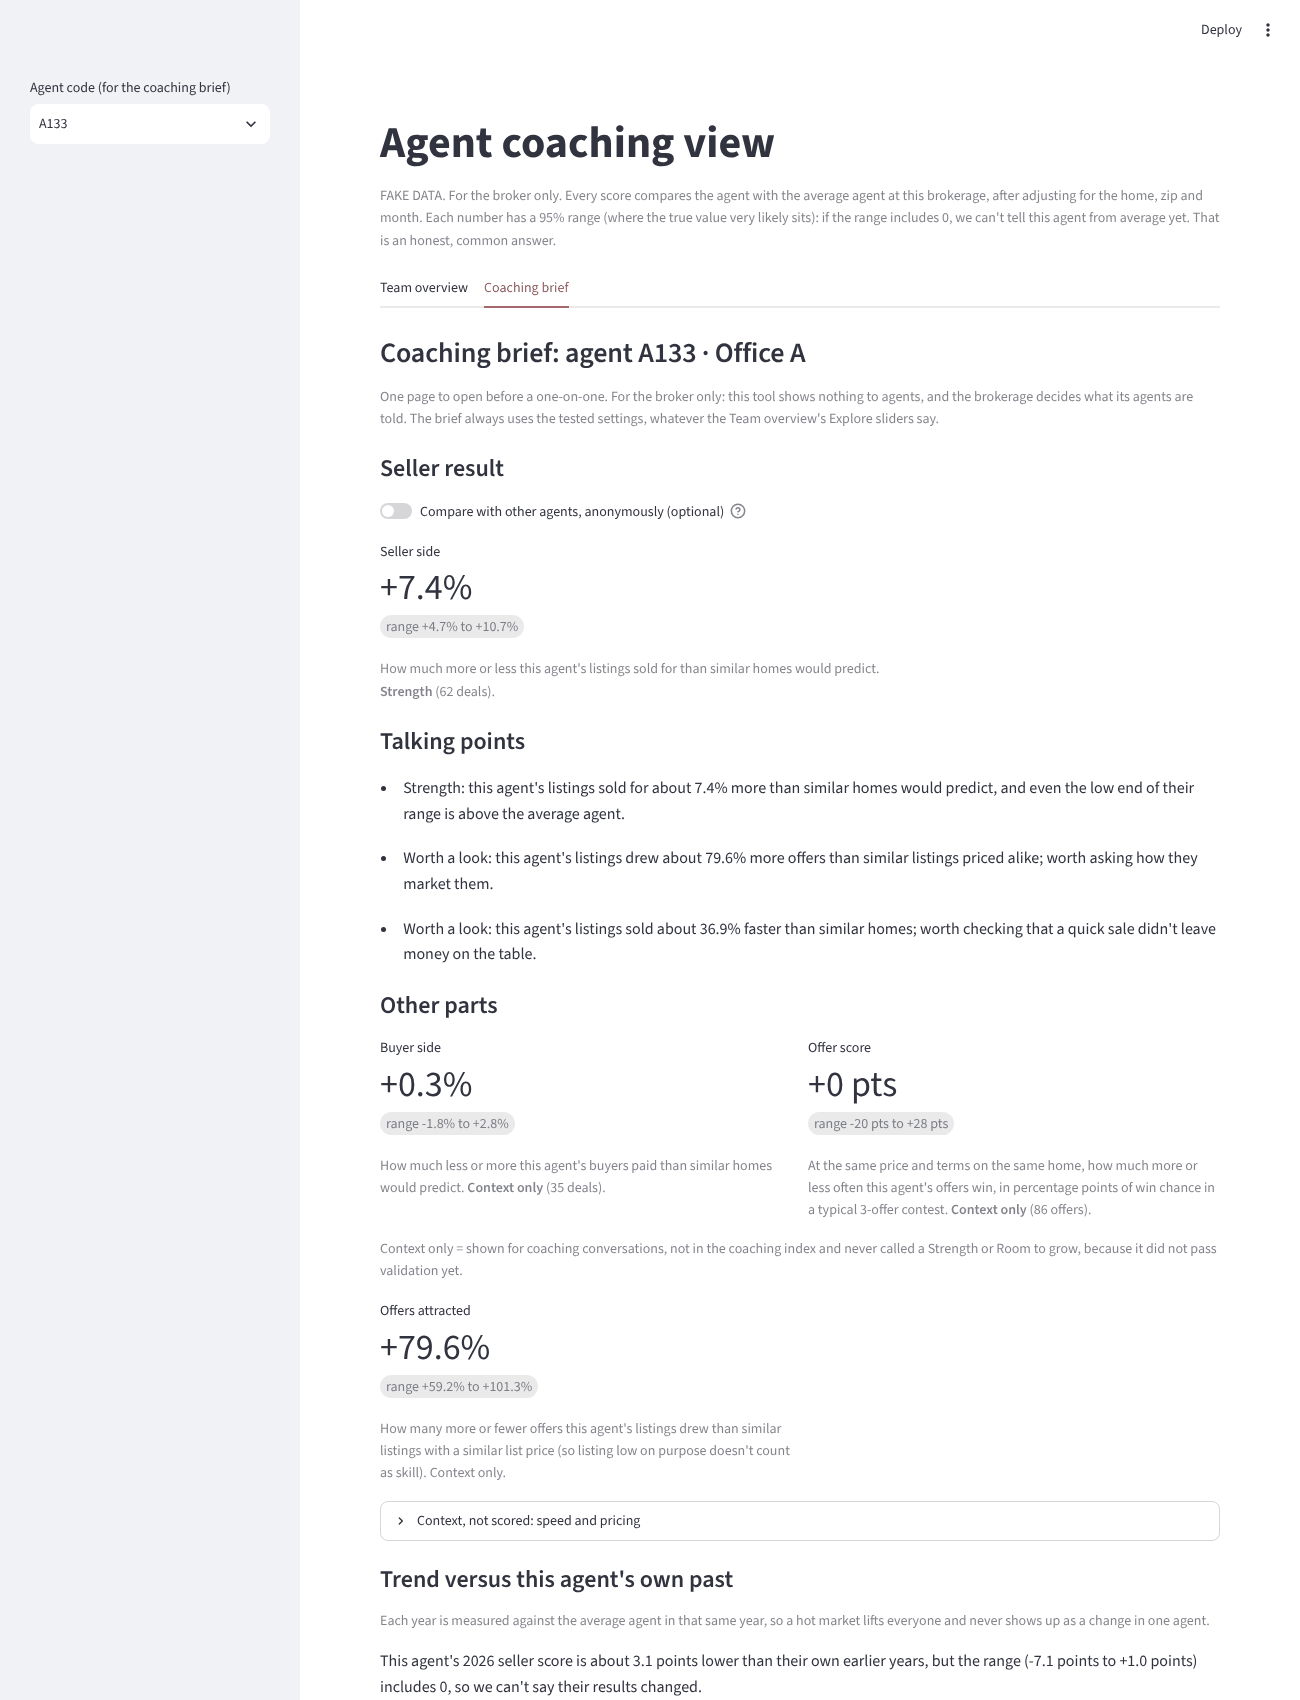
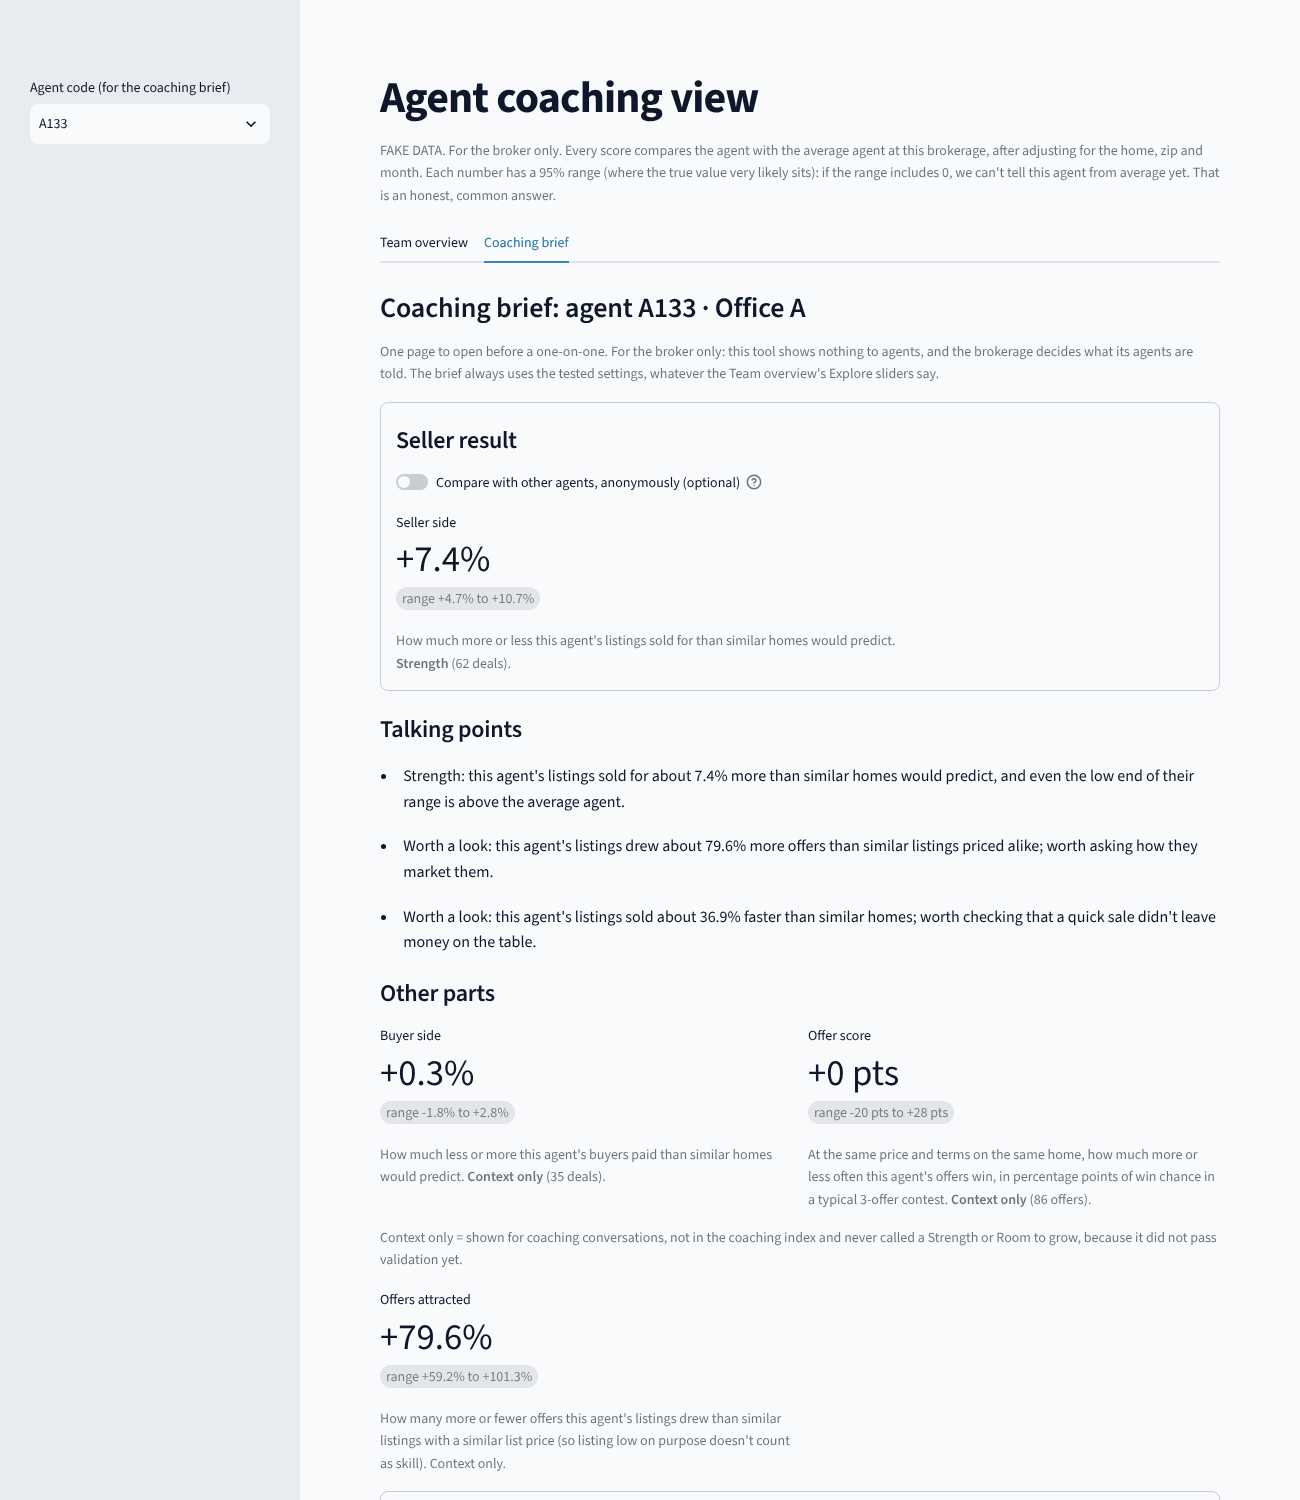
UI pass: calm navy theme, bordered cards, visible focus, reduced motion
Design notes from the ui-ux-pro-max skill (installed locally, git-ignored). Scoring and wording unchanged; 112 tests pass.

Claude-Session: https://claude.ai/code/session_01LZ89jJP1Vm7o6cHcoqvpzY

diff --git a/app/coaching_app.py b/app/coaching_app.py
@@ -39,7 +39,7 @@ DATA, IS_DEMO = choose_data()
 CONFIG = ROOT / "config" / "scoring.json"
 NOT_CLEAR = "Not clearly different from average"
 GROUPS = ["Strength", NOT_CLEAR, "Room to grow"]
-GROUP_COLORS = ["#2a78d6", "#898781", "#eb6834"]   # color follows the call, never an order
+GROUP_COLORS = ["#0369A1", "#94A3B8", "#C2410C"]   # color follows the call, never an order
 NO_TEAM = "No team"
 PARTS = {  # name in scorecards.csv -> (label, one-sentence meaning, how to show the number)
     "seller": ("Seller side", "How much more or less this agent's listings sold for than similar homes would predict.", "pct"),
@@ -92,9 +92,9 @@ def trend_chart(t):
     x = alt.X("period:O", title=None, sort=sorted(d["period"].unique()), axis=alt.Axis(labelAngle=0))
     base = alt.Chart(d).encode(x=x)
     zero = alt.Chart(pd.DataFrame({"y": [0]})).mark_rule(strokeDash=[4, 4], color="#898781").encode(y="y:Q")
-    ranges = base.mark_rule(strokeWidth=2, opacity=0.5, color="#2a78d6").encode(
+    ranges = base.mark_rule(strokeWidth=2, opacity=0.5, color="#0369A1").encode(
         y=alt.Y("low_pct:Q", title="Seller score, % vs average agent that period"), y2="high_pct:Q")
-    dots = base.mark_point(size=70, color="#2a78d6", strokeWidth=2, filled=True, stroke="#2a78d6").encode(
+    dots = base.mark_point(size=70, color="#0369A1", strokeWidth=2, filled=True, stroke="#0369A1").encode(
         y="score_pct:Q",
         fillOpacity=alt.condition("datum.small_sample", alt.value(0), alt.value(1)),
         shape=alt.Shape("sample:N", title=None, legend=alt.Legend(orient="top")),
@@ -140,7 +140,7 @@ def peer_chart(row, name, kind, peers):
     you = pd.DataFrame({"score": [row[f"{name}_score"] * 100], "low": [row[f"{name}_low"] * 100],
                         "high": [row[f"{name}_high"] * 100], "who": ["This agent"]})
     color = alt.Color("who:N", title=None, legend=None,
-                      scale=alt.Scale(domain=["Other agents (anonymous)", "This agent"], range=["#c3c2bd", "#2a78d6"]))
+                      scale=alt.Scale(domain=["Other agents (anonymous)", "This agent"], range=["#c3c2bd", "#0369A1"]))
     return (
         alt.Chart(dots).mark_tick(thickness=1, size=18, opacity=0.6).encode(
             x=alt.X("score:Q", title="% vs average" if kind == "pct" else "pts vs average"), color=color)
@@ -184,6 +184,20 @@ def sales_table(df, goals, flags):
 
 
 st.set_page_config(page_title="agent-insights", layout="wide")
+
+# Look and feel: a few CSS rules, static text only (no data is ever put into this block).
+# Contrast follows the design notes (body text 4.5:1 or better), keyboard focus is visible, and motion is
+# switched off for people who ask their computer for reduced motion.
+st.markdown("""<style>
+.block-container {padding-top: 2.2rem; max-width: 1180px;}
+h1 {font-weight: 700; letter-spacing: -0.02em; font-size: 2rem;}
+h4 {margin-top: 1.2rem; letter-spacing: -0.01em;}
+[data-testid="stMetricValue"] {font-size: 2.3rem; font-variant-numeric: tabular-nums;}
+[data-baseweb="tab"] {font-weight: 600;}
+[data-testid="stVerticalBlockBorderWrapper"] {background: #FFFFFF;}
+button:focus-visible, [role="tab"]:focus-visible, input:focus-visible {outline: 2px solid #0369A1; outline-offset: 2px;}
+@media (prefers-reduced-motion: reduce) {* {transition: none !important; animation: none !important;}}
+</style>""", unsafe_allow_html=True)
 st.title("Agent coaching view")
 st.caption("FAKE DATA. For the broker only. Every score compares the agent with the average agent at this brokerage, "
            "after adjusting for the home, zip and month. Each number has a 95% range (where the true value very likely "
@@ -207,11 +221,12 @@ team, brief = st.tabs(["Team overview", "Coaching brief"])   # the app opens on 
 
 # ================= Team overview =================
 with team:
-    f1, f2 = st.columns(2)
-    offices = sorted(full["office"].unique())
-    teams = sorted(full["team"].unique(), key=lambda t: (t == NO_TEAM, t))
-    pick_offices = f1.multiselect("Office", offices, default=offices, key="office")
-    pick_teams = f2.multiselect("Team", teams, default=teams, key="team")
+    with st.container(border=True):
+        f1, f2 = st.columns(2)
+        offices = sorted(full["office"].unique())
+        teams = sorted(full["team"].unique(), key=lambda t: (t == NO_TEAM, t))
+        pick_offices = f1.multiselect("Office", offices, default=offices, key="office")
+        pick_teams = f2.multiselect("Team", teams, default=teams, key="team")
 
     # Guard rail (Phase 7): the tested weights are the default view. Sliders appear only after someone
     # turns on "explore", so nobody judges people on an untested part by accident.
@@ -317,25 +332,26 @@ with brief:
     if tags["specialties"]:
         st.markdown("**Specialty tags (broker):** " + ", ".join(tags["specialties"]))
 
-    st.markdown("#### Seller result")
-    s_label, s_meaning, s_kind = PARTS["seller"]
-    show_peers = st.toggle("Compare with other agents, anonymously (optional)", value=False, key="show_peers",
-                           help="Grey ticks with no names, shown only when at least 10 other agents have the score.")
-    n_total = int(row["seller_n"] + row["buyer_n"])
-    if row["low_data_flag"]:
-        st.info(f"**{TRACK_RECORD}.** {n_total} sale{'s' if n_total != 1 else ''} on record "
-                f"({int(row['seller_n'])} as listing agent, {int(row['buyer_n'])} for a buyer). Scores need at least "
-                f"{cfg['small_sample']} sales before they mean much, so none is shown. The sales are listed below.")
-    elif pd.isna(row["seller_score"]):
-        st.write("**No data.** No listings on record yet, so there is no seller result.")
-    else:
-        top = st.columns([2, 1])
-        show_part(top[0], row, "seller", s_label, s_meaning, s_kind, show_peers)
-        if own is not None and len(own) and (own["low_confidence"].mean() > LOW_SHARE):
-            low_n = int(own["low_confidence"].sum())
-            st.warning(f"**Low confidence.** {low_n} of this agent's {len(own)} listings sit in thin parts of the market "
-                       f"(fewer than {MIN_SIMILAR} similar sales in the data), so the estimate of what those homes should "
-                       "sell for is less certain, and the range above may not fully show it.")
+    with st.container(border=True):
+        st.markdown("#### Seller result")
+        s_label, s_meaning, s_kind = PARTS["seller"]
+        show_peers = st.toggle("Compare with other agents, anonymously (optional)", value=False, key="show_peers",
+                               help="Grey ticks with no names, shown only when at least 10 other agents have the score.")
+        n_total = int(row["seller_n"] + row["buyer_n"])
+        if row["low_data_flag"]:
+            st.info(f"**{TRACK_RECORD}.** {n_total} sale{'s' if n_total != 1 else ''} on record "
+                    f"({int(row['seller_n'])} as listing agent, {int(row['buyer_n'])} for a buyer). Scores need at least "
+                    f"{cfg['small_sample']} sales before they mean much, so none is shown. The sales are listed below.")
+        elif pd.isna(row["seller_score"]):
+            st.write("**No data.** No listings on record yet, so there is no seller result.")
+        else:
+            top = st.columns([2, 1])
+            show_part(top[0], row, "seller", s_label, s_meaning, s_kind, show_peers)
+            if own is not None and len(own) and (own["low_confidence"].mean() > LOW_SHARE):
+                low_n = int(own["low_confidence"].sum())
+                st.warning(f"**Low confidence.** {low_n} of this agent's {len(own)} listings sit in thin parts of the market "
+                           f"(fewer than {MIN_SIMILAR} similar sales in the data), so the estimate of what those homes should "
+                           "sell for is less certain, and the range above may not fully show it.")
 
     if not row["low_data_flag"]:
         st.markdown("#### Talking points")
